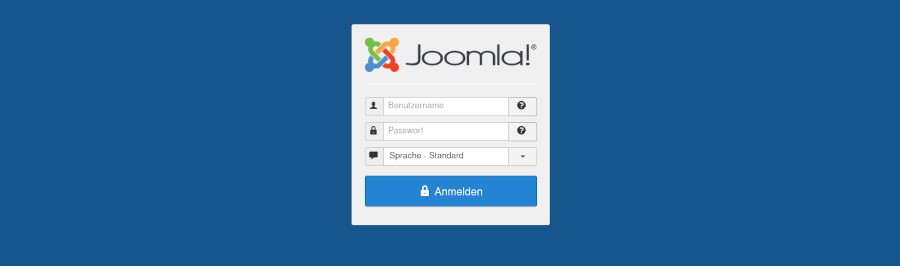
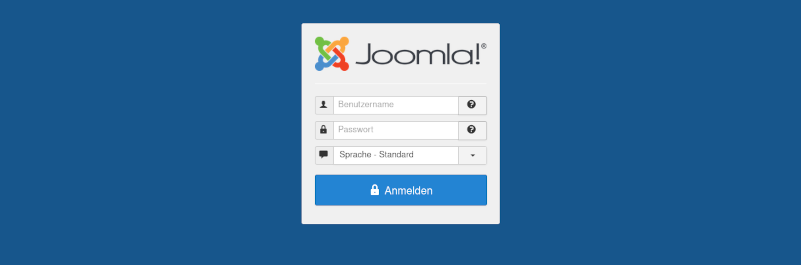
Reducing the image size and moving some images to the static folder

Changed region(s): [[0.3745, 0.0604, 0.6242, 0.8755]]

diff --git a/docs/source/joomla-to-vps.rst b/docs/source/joomla-to-vps.rst
@@ -88,13 +88,13 @@ To backup your website files and the corresponding database, follow these steps:
 
    The Backup Wizard provides multiple options. Select **Full or Partial Backup** > **Select Partial Backup** > **MySQL Databases**. This will allow you to download a backup of the MySQL database(s) of your Joomla website to your local machine.
 
-	.. figure:: pics/partial-backup-db.png
+	.. figure:: _static/pics/joomla-vps/partial-backup-db.png
 		:alt: public_html in the cPanel
 		:align: center 
 
 #. Login to the backend of your Joomla website.
 
-	.. figure:: pics/backend-login-joomla.png
+	.. figure:: _static/pics/joomla-vps/backend-login-joomla.png
 		:alt: public_html in the cPanel
 		:align: center
 
